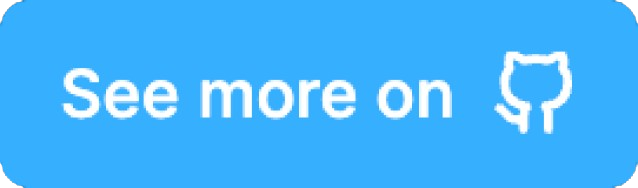
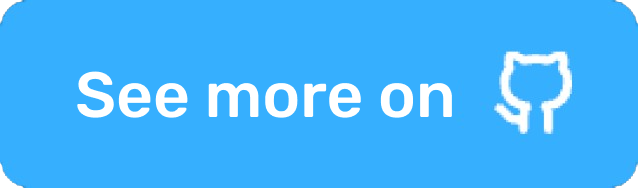
Add files via upload

Changed region(s): [[0.0893, 0.3457, 0.7147, 0.6383]]

diff --git a/index.html b/index.html
@@ -5,41 +5,50 @@
     <meta charset="UTF-8">
     <meta name="viewport" content="width=device-width, initial-scale=1.0">
     <title>Astro</title>
+    <link rel="stylesheet" href="https://unpkg.com/aos@next/dist/aos.css" />
     <link rel="stylesheet" href="style.css">
 </head>
 
 <body>
-    <img src="corner-img.png" alt="corner-img" id="corner-img">
+    <a href="index.html">
+        <img src="corner-img.png" alt="corner-img" id="corner-img">
+    </a>
     <div id="main-contents">
-        <p id="im-w">I'm <span id="astro-w">Astro</span></p>
-        <p class="plain-text" id="intro">I program websites, games, apps, robotics, and everything in between.</p>
+        <p id="im-w" data-aos="fade-right">I'm <span id="astro-w">Astro</span></p>
+        <p class="plain-text" id="intro" data-aos="fade-right">I program websites, games, apps, robotics, and everything in between.</p>
         <br>
-        <p class="title" id="lt">Languages:</p>
+        <p class="title" id="lt" data-aos="fade-right">Languages:</p>
         <br>
         <ul id="langs">
-            <li><img src="cpp.png" alt="c++"></li>
-            <li><img src="cs.png" alt="c#"></li>
-            <li><img src="py.png" alt="python"></li>
-            <li><img src="js.png" alt="javascript" class="js"></li>
-            <li><img src="lua.png" alt="lua"></li>
-            <li><img src="html.png" alt="html"></li>
-            <li><img src="css.png" alt="css"></li>
+            <li><img src="cpp.png" alt="c++" data-aos="zoom-in"></li>
+            <li><img src="cs.png" alt="c#" data-aos="zoom-in"></li>
+            <li><img src="py.png" alt="python" data-aos="zoom-in"></li>
+            <li><img src="js.png" alt="javascript" class="js" data-aos="zoom-in"></li>
+            <li><img src="lua.png" alt="lua" data-aos="zoom-in"></li>
+            <li><img src="html.png" alt="html" data-aos="zoom-in"></li>
+            <li><img src="css.png" alt="css" data-aos="zoom-in"></li>
         </ul>
-        <p class="title" id="pt">Notable Projects:</p>
+        <p class="title" id="pt" data-aos="fade-right">Notable Projects:</p>
         <ul id="projects">
-            <li><a href="https://astrogames06.github.io/"><img src="astrogames-l.png" alt="astrogames"></a></li>
-            <li><a href="https://cosmo-code.vercel.app/"><img src="cosmocode-l.png" alt="cosmocode"></a></li>
-            <li><a href="https://pico-coin-web.vercel.app/"><img src="picocoin-l.png" alt="picocoin"></a></li>
-            <li><a href="https://github.com/astrogames06/rlzero"><img src="raylibzero-l.png" alt="raylibzero"></a></li>
+            <li><a href="https://astrogames06.github.io/"><img src="astrogames-l.png" alt="astrogames" data-aos="zoom-in"></a></li>
+            <li><a href="https://cosmo-code.vercel.app/"><img src="cosmocode-l.png" alt="cosmocode" data-aos="zoom-in"></a></li>
+            <li><a href="https://pico-coin-web.vercel.app/"><img src="picocoin-l.png" alt="picocoin" data-aos="zoom-in"></a></li>
+            <li><a href="https://github.com/astrogames06/rlzero"><img src="raylibzero-l.png" alt="raylibzero" data-aos="zoom-in"></a></li>
             <li><a href="https://github.com/astrogames06/rayfunctions"><img src="rayfunctions-l.png"
-                        alt="rayfunctions"></a></li>
+                        alt="rayfunctions" data-aos="zoom-in"></a></li>
         </ul>
-        <p class="title">About Me:</p>
-        <p class="plain-text" id="am">My name is Jesse Sher, a 13-year-old from Australia passionate about programming.
+        <p class="title" data-aos="fade-right">About Me:</p>
+        <p class="plain-text" id="am" data-aos="fade-right">My name is Jesse Sher, a 13-year-old from Australia passionate about programming.
             With 3-4 years of experience, I've created numerous projects.</p>
 
         <a href="https://github.com/astrogames06"><img src="sm-btn.png" id="sm-btn" alt="see more"></a>
+        <a href="contact.html"><img src="contact.png" id="contact-btn" alt="contact"></a>
     </div>
+
+    <script src="https://unpkg.com/aos@next/dist/aos.js"></script>
+    <script>
+      AOS.init();
+    </script>
 </body>
 
 </html>

diff --git a/contact.html b/contact.html
@@ -1,0 +1,40 @@
+<!DOCTYPE html>
+<html lang="en">
+<head>
+    <meta charset="UTF-8">
+    <meta name="viewport" content="width=device-width, initial-scale=1.0">
+    <title>Contact</title>
+    <link rel="stylesheet" href="https://unpkg.com/aos@next/dist/aos.css" />
+    <link rel="stylesheet" href="style.css">
+</head>
+<body>
+    <a href="index.html">
+        <img src="corner-img.png" alt="corner-img" id="corner-img">
+    </a>
+    <br>
+    <h1 data-aos="fade-right" style="
+    color: white;
+    text-align: center;
+    font-size: 70px;
+    font-family: 'Oxanium', sans-serif;
+    ">Contact</h1>
+    <h2 data-aos="fade-right" style="
+    color: white;
+    text-align: center;
+    font-family: 'Oxanium', sans-serif;
+    ">Email:<br>jebba272727@gmail.com</h2>
+    <a data-aos="flip-up" href="mailto:jebba272727@gmail.com" target="_blank" style="display: flex;
+    justify-content: center;
+    align-items: center;
+    margin: 0;">
+        <img src="contact.png" alt="contact" style="
+            width: 200px;
+        ">
+    </a>
+
+    <script src="https://unpkg.com/aos@next/dist/aos.js"></script>
+    <script>
+      AOS.init();
+    </script>
+</body>
+</html>

diff --git a/style.css b/style.css
@@ -129,5 +129,12 @@ body
 #sm-btn
 {
     margin-top: -10px;
-    width: 100px;
+    width: 150px;
+    margin-right: 20px;
+}
+
+#contact-btn
+{
+    margin-top: -10px;
+    width: 150px;
 }
